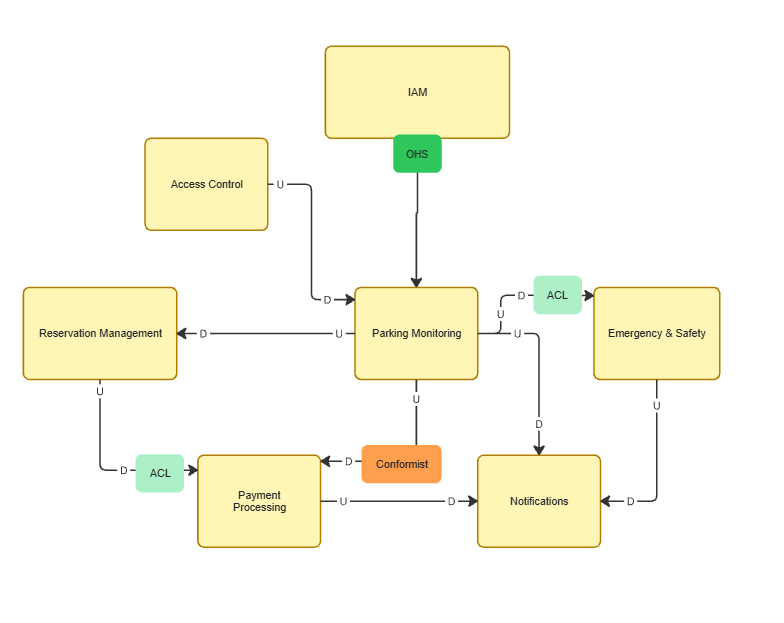
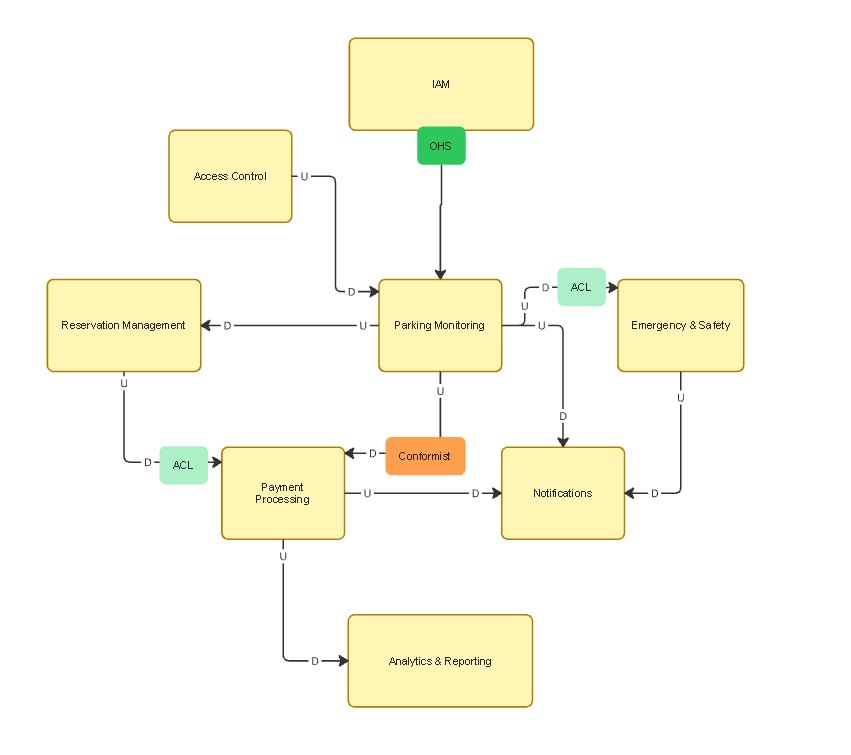
fix(ddd): add Analytics & Reporting bounded context to context map

diff --git a/README.md b/README.md
@@ -1955,116 +1955,71 @@ Hub de comunicaciones encargado de orquestar alertas Push y correos. Valida pref
 
 ![Notification Management Canvas](assets/diagrams/context-canvases/noti.png)
 
+---
+
 ## 4.1.2. Context Mapping
 
 En esta sección se define el context mapping del sistema SpotFinder, con el propósito de representar las relaciones existentes entre los bounded contexts identificados a partir del Event Storming. Este análisis permite comprender cómo interactúan los distintos dominios del sistema y qué patrones de integración son más adecuados para mantener la independencia y coherencia del modelo.
 
-A partir de la identificación de los contextos —Parking Monitoring, Access Control, Reservation Management, Payment Processing, Emergency & Safety, Identity & Access Management y Notifications— se establecieron relaciones utilizando patrones de Domain-Driven Design como Customer/Supplier, Shared Kernel, Conformist, Open Host Service (OHS) y Anti-Corruption Layer (ACL).
+A partir de la identificación de los contextos Parking Monitoring, Access Control, Reservation Management, Payment Processing, Emergency & Safety, Identity & Access Management, Notifications y Analytics & Reporting se establecieron relaciones utilizando patrones de Domain-Driven Design como Customer/Supplier, Shared Kernel, Conformist, Open Host Service (OHS) y Anti-Corruption Layer (ACL).
 
 ---
 
 ### Identificación de relaciones y patrones
 
-**Identity & Access Management → Access Control**  
-**Patrón: Open Host Service (OHS)**  
-**Relación: IAM (U) → Access Control (D)**  
-**Tipo de integración: OHS**  
-El contexto de Identity & Access Management centraliza la autenticación y gestión de usuarios. Access Control consume estos servicios para validar identidad y permisos en los accesos físicos, utilizando interfaces definidas sin depender del modelo interno.
+**Identity & Access Management → Access Control** **Patrón: Open Host Service (OHS)** **Relación: IAM (U) → Access Control (D)** **Tipo de integración: OHS** El contexto de Identity & Access Management centraliza la autenticación y gestión de usuarios. Access Control consume estos servicios para validar identidad y permisos en los accesos físicos, utilizando interfaces definidas sin depender del modelo interno.
 
 ---
 
-**Identity & Access Management → Reservation Management**  
-**Patrón: Open Host Service (OHS)**  
-**Relación: IAM (U) → Reservation Management (D)**  
-**Tipo de integración: OHS**  
-Reservation Management requiere validar usuarios antes de permitir la creación y gestión de reservas. IAM provee estos servicios mediante interfaces desacopladas.
+**Identity & Access Management → Reservation Management** **Patrón: Open Host Service (OHS)** **Relación: IAM (U) → Reservation Management (D)** **Tipo de integración: OHS** Reservation Management requiere validar usuarios antes de permitir la creación y gestión de reservas. IAM provee estos servicios mediante interfaces desacopladas.
 
 ---
 
-**Identity & Access Management → Payment Processing**  
-**Patrón: Open Host Service (OHS)**  
-**Relación: IAM (U) → Payment Processing (D)**  
-**Tipo de integración: OHS**  
-Payment Processing utiliza IAM para autenticar usuarios antes de ejecutar transacciones, evitando dependencias directas con el modelo de identidad.
+**Identity & Access Management → Payment Processing** **Patrón: Open Host Service (OHS)** **Relación: IAM (U) → Payment Processing (D)** **Tipo de integración: OHS** Payment Processing utiliza IAM para autenticar usuarios antes de ejecutar transacciones, evitando dependencias directas con el modelo de identidad.
 
 ---
 
-**Identity & Access Management → Notifications**  
-**Patrón: Open Host Service (OHS)**  
-**Relación: IAM (U) → Notifications (D)**  
-**Tipo de integración: OHS**  
-Notifications obtiene información básica del usuario (identidad/contacto) desde IAM para poder enviar mensajes correctamente.
+**Identity & Access Management → Notifications** **Patrón: Open Host Service (OHS)** **Relación: IAM (U) → Notifications (D)** **Tipo de integración: OHS** Notifications obtiene información básica del usuario (identidad/contacto) desde IAM para poder enviar mensajes correctamente.
 
 ---
 
-**Access Control → Parking Monitoring**  
-**Patrón: Customer/Supplier**  
-**Relación: Access Control (U) → Parking Monitoring (D)**  
-**Tipo de integración: Directo (eventos)**  
-Access Control genera eventos como detección de entrada, lectura de placas o apertura de barreras. Parking Monitoring consume estos eventos para actualizar el estado del estacionamiento.
+**Access Control → Parking Monitoring** **Patrón: Customer/Supplier** **Relación: Access Control (U) → Parking Monitoring (D)** **Tipo de integración: Directo (eventos)** Access Control genera eventos como detección de entrada, lectura de placas o apertura de barreras. Parking Monitoring consume estos eventos para actualizar el estado del estacionamiento.
 
 ---
 
-**Parking Monitoring ↔ Reservation Management**  
-**Patrón: Shared Kernel**  
-**Tipo de integración: Modelo compartido**  
-Ambos contextos comparten el concepto de espacio de estacionamiento y disponibilidad, garantizando consistencia en la asignación y reserva de espacios.
+**Parking Monitoring ↔ Reservation Management** **Patrón: Shared Kernel** **Tipo de integración: Modelo compartido** Ambos contextos comparten el concepto de espacio de estacionamiento y disponibilidad, garantizando consistencia en la asignación y reserva de espacios.
 
 ---
 
-**Reservation Management → Payment Processing**  
-**Patrón: Customer/Supplier + Anti-Corruption Layer (ACL)**  
-**Relación: Reservation Management (U) → Payment Processing (D)**  
-**Tipo de integración: ACL**  
-Reservation Management genera información de sesiones y reservas que es transformada mediante una ACL antes de ser utilizada por Payment Processing, evitando acoplamiento con el dominio financiero.
+**Reservation Management → Payment Processing** **Patrón: Customer/Supplier + Anti-Corruption Layer (ACL)** **Relación: Reservation Management (U) → Payment Processing (D)** **Tipo de integración: ACL** Reservation Management genera información de sesiones y reservas que es transformada mediante una ACL antes de ser utilizada por Payment Processing, evitando acoplamiento con el dominio financiero.
 
 ---
 
-**Parking Monitoring → Payment Processing**  
-**Patrón: Conformist**  
-**Relación: Parking Monitoring (U) → Payment Processing (D)**  
-**Tipo de integración: Directo (Conformist)**  
-Payment Processing consume directamente información de ocupación y duración de sesiones, adaptándose al modelo de Parking Monitoring.
+**Parking Monitoring → Payment Processing** **Patrón: Conformist** **Relación: Parking Monitoring (U) → Payment Processing (D)** **Tipo de integración: Directo (Conformist)** Payment Processing consume directamente información de ocupación y duración de sesiones, adaptándose al modelo de Parking Monitoring.
 
 ---
 
-**Parking Monitoring → Emergency & Safety**  
-**Patrón: Anti-Corruption Layer (ACL)**  
-**Relación: Parking Monitoring (U) → Emergency & Safety (D)**  
-**Tipo de integración: ACL**  
-Los datos provenientes de sensores son transformados mediante una ACL para ser interpretados como eventos de seguridad, evitando dependencia del modelo técnico IoT.
+**Parking Monitoring → Emergency & Safety** **Patrón: Anti-Corruption Layer (ACL)** **Relación: Parking Monitoring (U) → Emergency & Safety (D)** **Tipo de integración: ACL** Los datos provenientes de sensores son transformados mediante una ACL para ser interpretados como eventos de seguridad, evitando dependencia del modelo técnico IoT.
 
 ---
 
-**Parking Monitoring → Notifications**  
-**Patrón: Customer/Supplier**  
-**Relación: Parking Monitoring (U) → Notifications (D)**  
-**Tipo de integración: Directo (eventos)**  
-Eventos como cambios en la ocupación son enviados al sistema de notificaciones.
+**Parking Monitoring → Notifications** **Patrón: Customer/Supplier** **Relación: Parking Monitoring (U) → Notifications (D)** **Tipo de integración: Directo (eventos)** Eventos como cambios en la ocupación son enviados al sistema de notificaciones.
 
 ---
 
-**Reservation Management → Notifications**  
-**Patrón: Customer/Supplier**  
-**Relación: Reservation Management (U) → Notifications (D)**  
-**Tipo de integración: Directo (eventos)**  
-Eventos de reservas (confirmaciones, cancelaciones, expiraciones) son comunicados al usuario.
+**Reservation Management → Notifications** **Patrón: Customer/Supplier** **Relación: Reservation Management (U) → Notifications (D)** **Tipo de integración: Directo (eventos)** Eventos de reservas (confirmaciones, cancelaciones, expiraciones) son comunicados al usuario.
 
 ---
 
-**Payment Processing → Notifications**  
-**Patrón: Customer/Supplier**  
-**Relación: Payment Processing (U) → Notifications (D)**  
-**Tipo de integración: Directo (eventos)**  
-El estado de las transacciones es enviado al sistema de notificaciones.
+**Payment Processing → Notifications** **Patrón: Customer/Supplier** **Relación: Payment Processing (U) → Notifications (D)** **Tipo de integración: Directo (eventos)** El estado de las transacciones es enviado al sistema de notificaciones.
 
 ---
 
-**Emergency & Safety → Notifications**  
-**Patrón: Customer/Supplier**  
-**Relación: Emergency & Safety (U) → Notifications (D)**  
-**Tipo de integración: Directo (eventos)**  
-Las alertas críticas son enviadas al usuario o administrador mediante el sistema de notificaciones.
+**Emergency & Safety → Notifications** **Patrón: Customer/Supplier** **Relación: Emergency & Safety (U) → Notifications (D)** **Tipo de integración: Directo (eventos)** Las alertas críticas son enviadas al usuario o administrador mediante el sistema de notificaciones.
+
+---
+
+**Payment Processing → Analytics & Reporting** **Patrón: Customer/Supplier** **Relación: Payment Processing (U) → Analytics & Reporting (D)** **Tipo de integración: Directo (eventos transaccionales)** El contexto de Analytics & Reporting actúa puramente como un consumidor asíncrono de la información consolidada de las transacciones financieras y marcas de tiempo de estancia proveídas por Payment Processing, procesando estos datos de manera aislada para generar reportes financieros, horas pico y métricas de rotación sin sobrecargar ni interferir con el núcleo operativo del sistema.
 
 ---
 
@@ -2079,6 +2034,8 @@ Asimismo, se priorizó el uso de Customer/Supplier y Anti-Corruption Layer en la
 En el caso de Parking Monitoring y Reservation Management, se utilizó Shared Kernel debido a la necesidad de consistencia en el manejo de espacios.
 
 El contexto de Notifications se definió como un consumidor de eventos, centralizando la comunicación con el usuario sin afectar la lógica de otros contextos.
+
+Finalmente, para el diseño de Analytics & Reporting se optó por un enfoque de acoplamiento mínimo y asíncrono a través de una única relación Customer/Supplier con Payment Processing. Esta decisión estratégica evita la dispersión de flechas y dependencias cruzadas (evitando sobrecargar el nodo central de Parking Monitoring), aprovechando que los eventos financieros ya contienen la traza completa de tiempos de uso, placas de vehículos y montos recaudados necesarios para compilar la inteligencia de negocio.
 
 ---
 
